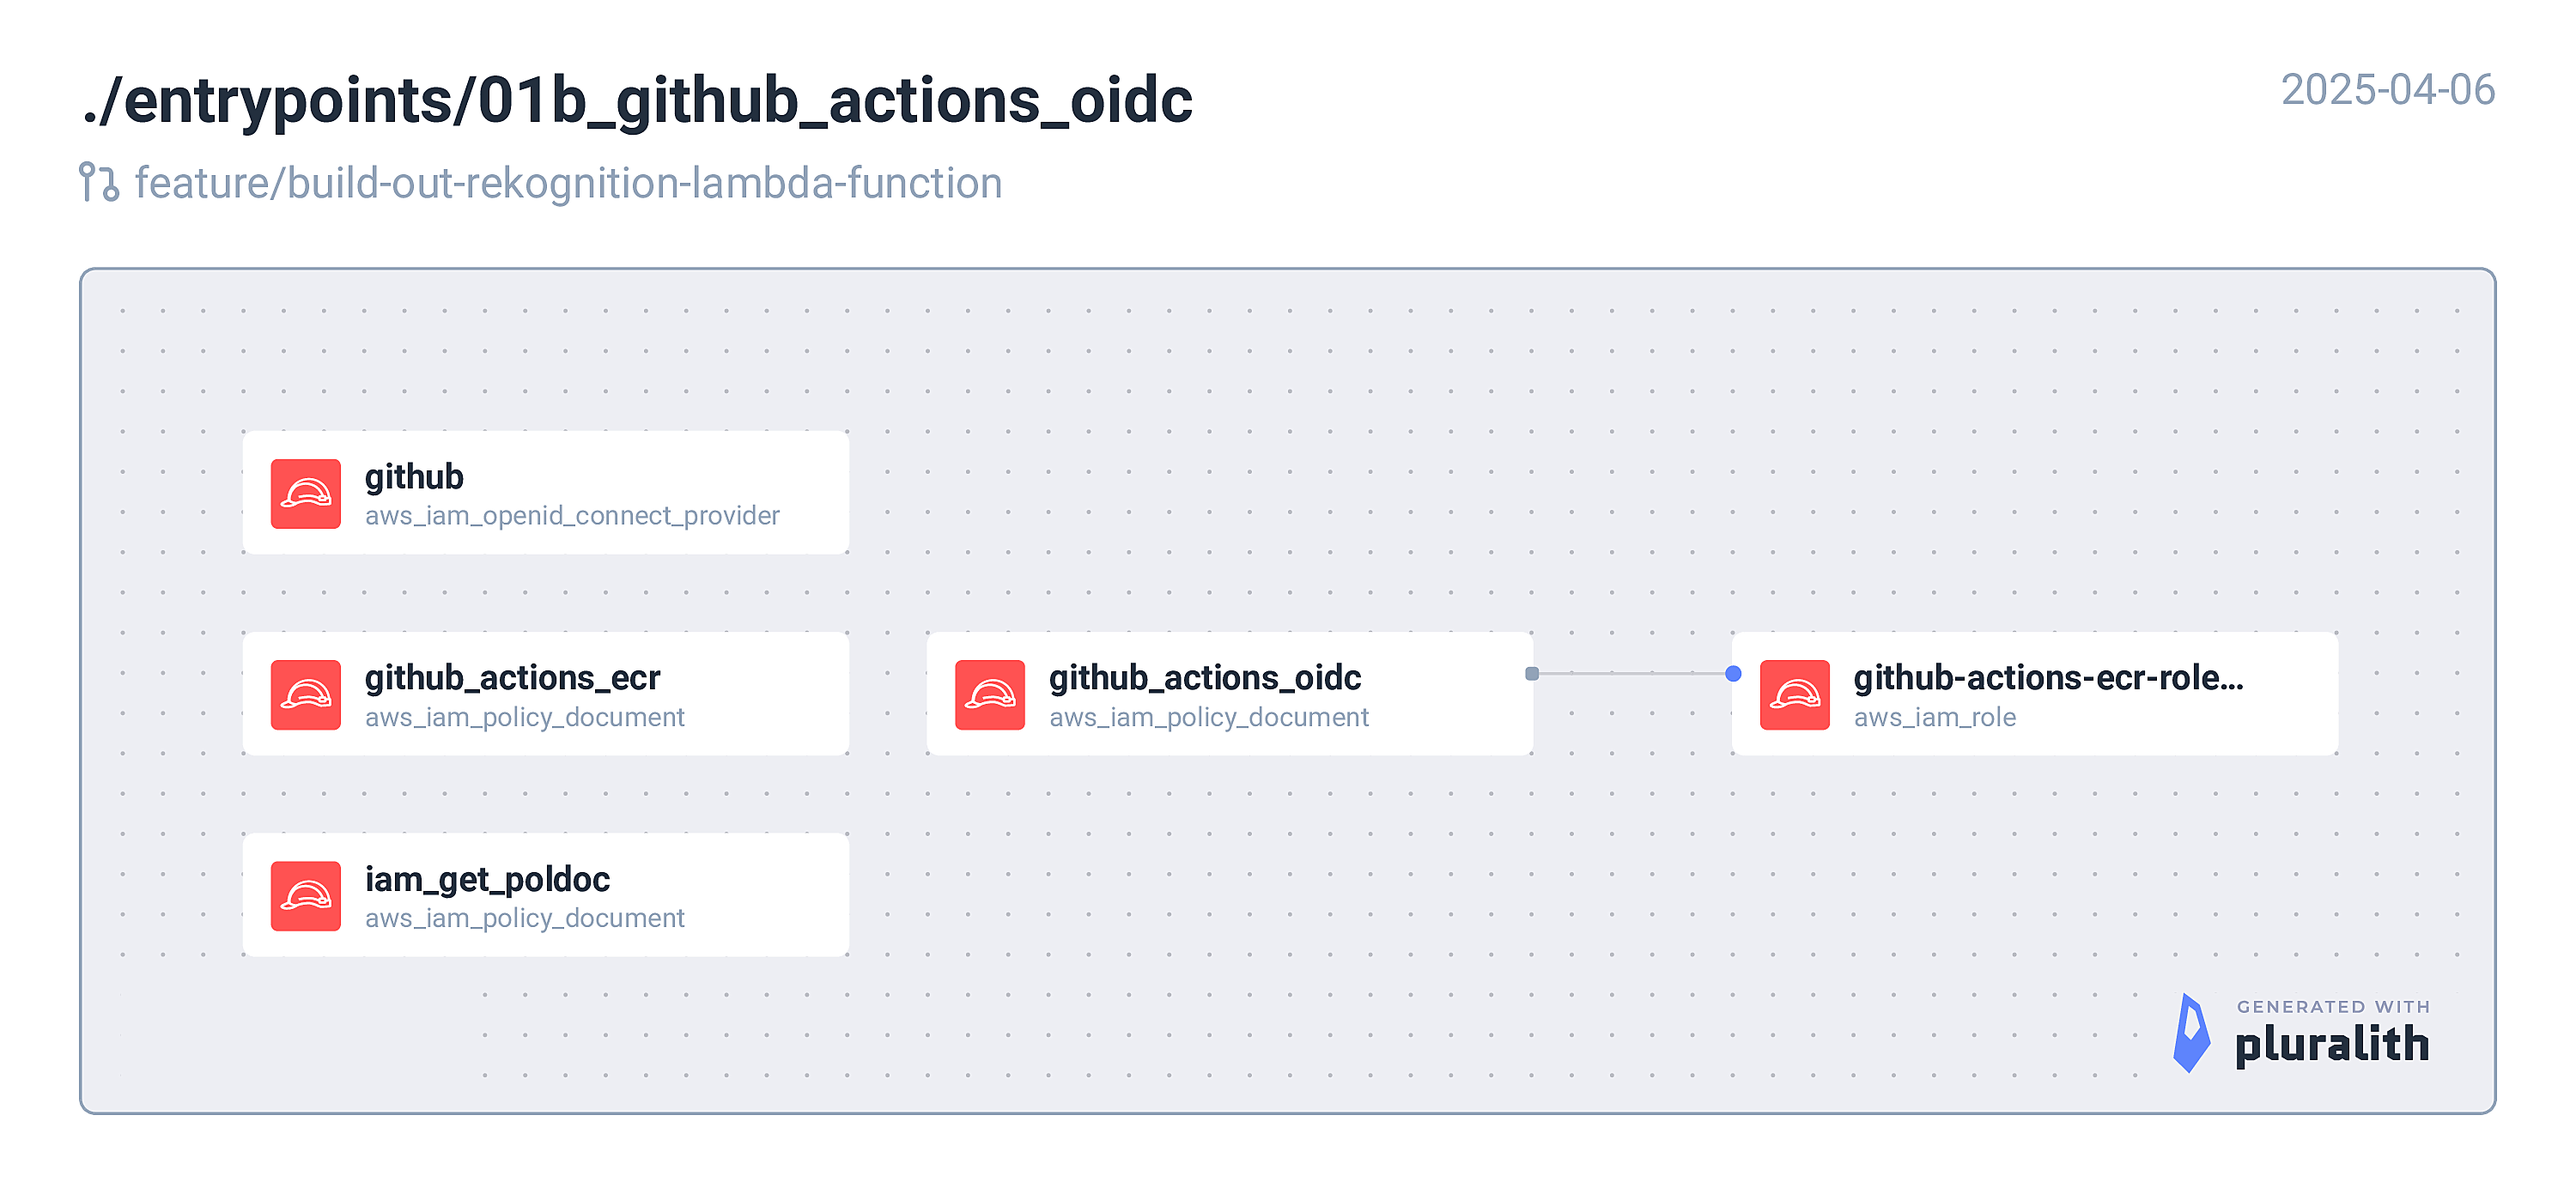
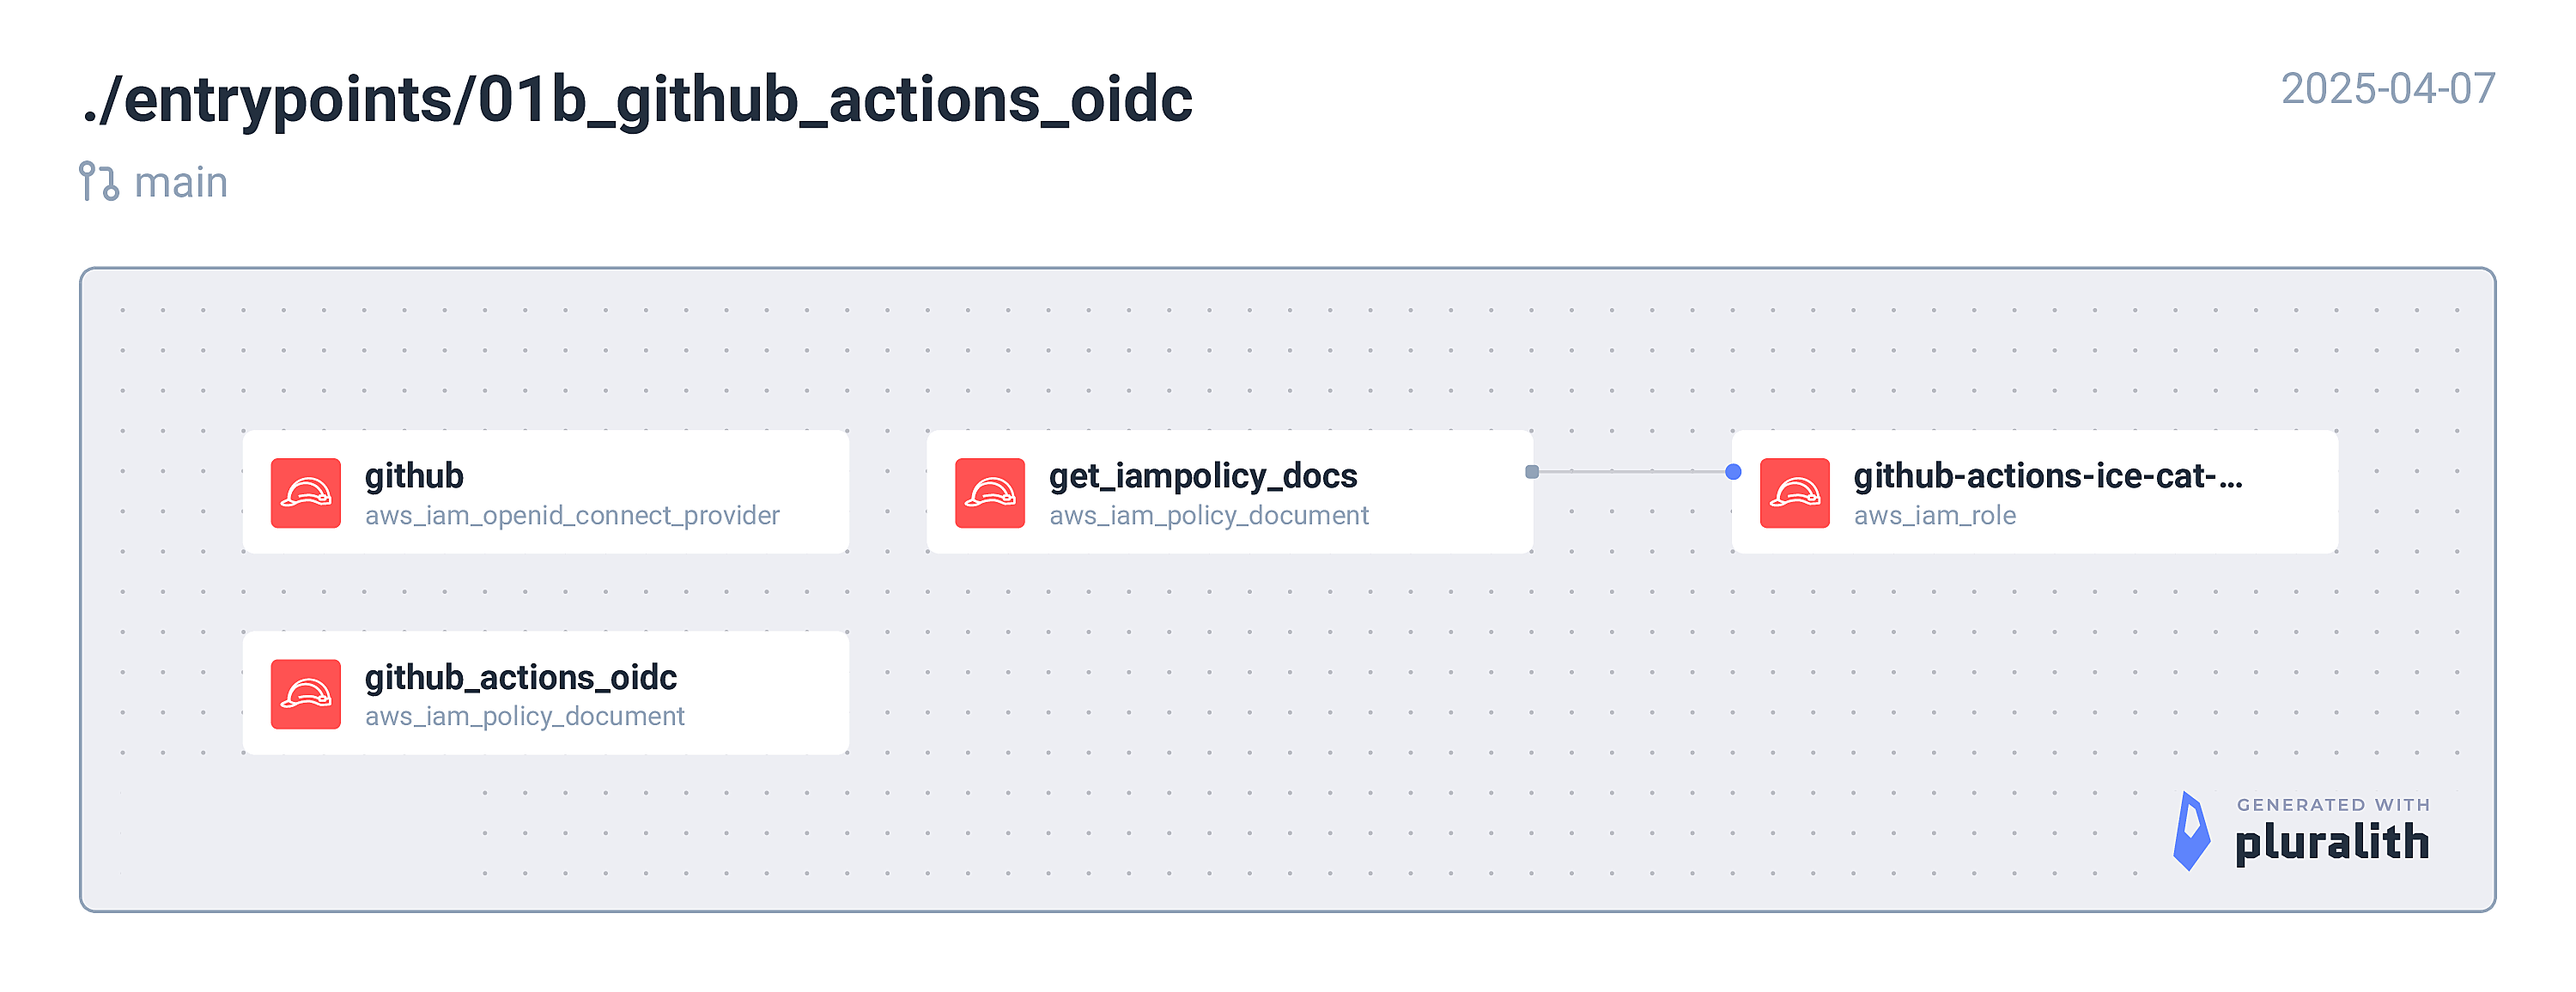
update 01b_github_actions_oidc to use remote module for role and add aws iam deploy role as a repo secret to use in workflow

diff --git a/infra-terra/entrypoints/03_create_lambda_permissions/README.md b/infra-terra/entrypoints/03_create_lambda_permissions/README.md
@@ -17,7 +17,7 @@ No providers.
 
 | Name | Source | Version |
 |------|--------|---------|
-| <a name="module_lambda_role_and_policies"></a> [lambda\_role\_and\_policies](#module\_lambda\_role\_and\_policies) | github.com/stablecaps/terraform-aws-iam-policies-stablecaps | v2.0.0 |
+| <a name="module_lambda_role_and_policies"></a> [lambda\_role\_and\_policies](#module\_lambda\_role\_and\_policies) | github.com/stablecaps/terraform-aws-iam-policies-stablecaps | v2.1.0 |
 
 ## Resources
 
@@ -27,14 +27,20 @@ No resources.
 
 | Name | Description | Type | Default | Required |
 |------|-------------|------|---------|:--------:|
+| <a name="input_aws_acc_no"></a> [aws\_acc\_no](#input\_aws\_acc\_no) | AWS account number | `string` | n/a | yes |
 | <a name="input_created_by"></a> [created\_by](#input\_created\_by) | Created by | `string` | `"terraform"` | no |
 | <a name="input_env"></a> [env](#input\_env) | Deployment environment. e.g. dev, uat, prod | `string` | n/a | yes |
 | <a name="input_owner"></a> [owner](#input\_owner) | Owner of the project | `string` | `"DevOps"` | no |
 | <a name="input_project"></a> [project](#input\_project) | Project name | `string` | `"cat-wrangler"` | no |
 | <a name="input_region"></a> [region](#input\_region) | AWS region. e.g. eu-west-1 | `string` | n/a | yes |
+| <a name="input_s3bucket_dest_name"></a> [s3bucket\_dest\_name](#input\_s3bucket\_dest\_name) | s3 bucket destination name. Stores sucessfully processed images are stored | `string` | n/a | yes |
+| <a name="input_s3bucket_fail_name"></a> [s3bucket\_fail\_name](#input\_s3bucket\_fail\_name) | s3 bucket fail name. Stores data from failed image processing | `string` | n/a | yes |
+| <a name="input_s3bucket_source_name"></a> [s3bucket\_source\_name](#input\_s3bucket\_source\_name) | s3 bucket source name. Stores images to be processed | `string` | n/a | yes |
 | <a name="input_unique_str"></a> [unique\_str](#input\_unique\_str) | A unique string to avoid conflicts | `string` | n/a | yes |
 
 ## Outputs
 
-No outputs.
+| Name | Description |
+|------|-------------|
+| <a name="output_iam_role_arn"></a> [iam\_role\_arn](#output\_iam\_role\_arn) | Lambda IAM role arn used for serverless function |
 <!-- END_TF_DOCS -->

diff --git a/infra-terra/entrypoints/01b_github_actions_oidc/README.md b/infra-terra/entrypoints/01b_github_actions_oidc/README.md
@@ -17,19 +17,18 @@
 
 ## Modules
 
-No modules.
+| Name | Source | Version |
+|------|--------|---------|
+| <a name="module_lambda_role_and_policies"></a> [lambda\_role\_and\_policies](#module\_lambda\_role\_and\_policies) | github.com/stablecaps/terraform-aws-iam-policies-stablecaps | n/a |
 
 ## Resources
 
 | Name | Type |
 |------|------|
 | [aws_iam_openid_connect_provider.github](https://registry.terraform.io/providers/hashicorp/aws/latest/docs/resources/iam_openid_connect_provider) | resource |
-| [aws_iam_policy.iam_getpolicy](https://registry.terraform.io/providers/hashicorp/aws/latest/docs/resources/iam_policy) | resource |
-| [aws_iam_role.github_actions](https://registry.terraform.io/providers/hashicorp/aws/latest/docs/resources/iam_role) | resource |
-| [aws_iam_role_policy_attachment.attach](https://registry.terraform.io/providers/hashicorp/aws/latest/docs/resources/iam_role_policy_attachment) | resource |
-| [aws_iam_policy_document.github_actions_ecr](https://registry.terraform.io/providers/hashicorp/aws/latest/docs/data-sources/iam_policy_document) | data source |
+| [aws_iam_policy.get_iampolicies](https://registry.terraform.io/providers/hashicorp/aws/latest/docs/resources/iam_policy) | resource |
+| [aws_iam_policy_document.get_iampolicy_docs](https://registry.terraform.io/providers/hashicorp/aws/latest/docs/data-sources/iam_policy_document) | data source |
 | [aws_iam_policy_document.github_actions_oidc](https://registry.terraform.io/providers/hashicorp/aws/latest/docs/data-sources/iam_policy_document) | data source |
-| [aws_iam_policy_document.iam_get_poldoc](https://registry.terraform.io/providers/hashicorp/aws/latest/docs/data-sources/iam_policy_document) | data source |
 
 ## Inputs
 
@@ -47,5 +46,5 @@ No modules.
 
 | Name | Description |
 |------|-------------|
-| <a name="output_iam_role_arn"></a> [iam\_role\_arn](#output\_iam\_role\_arn) | ## This arn is used in github for authorisation |
+| <a name="output_iam_role_arn"></a> [iam\_role\_arn](#output\_iam\_role\_arn) | IAM Role ARN for Github Actions OIDC |
 <!-- END_TF_DOCS -->
